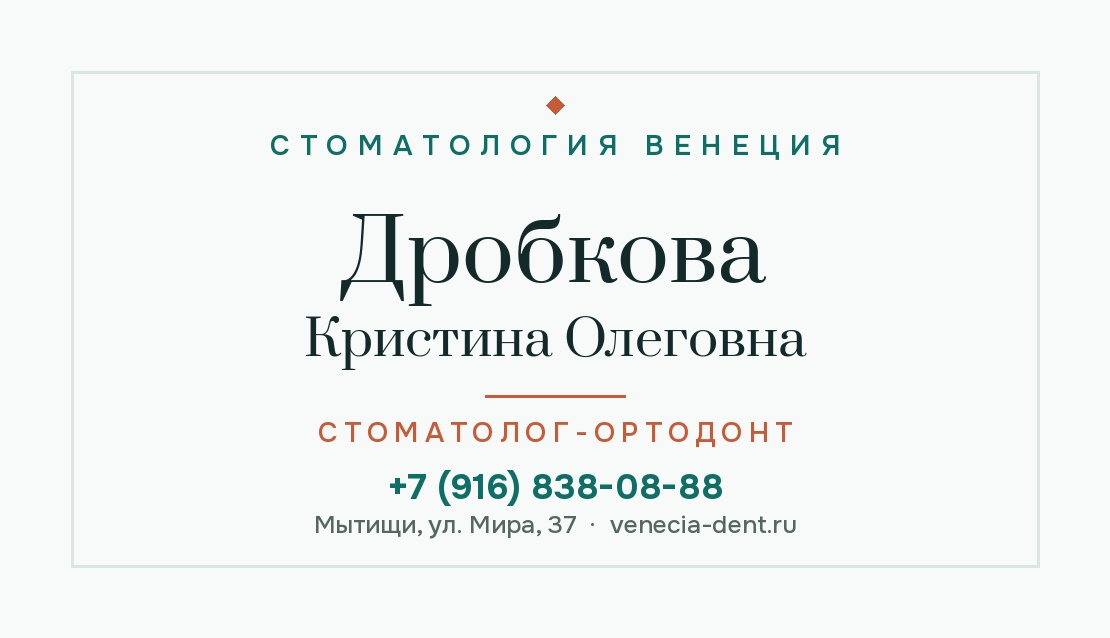
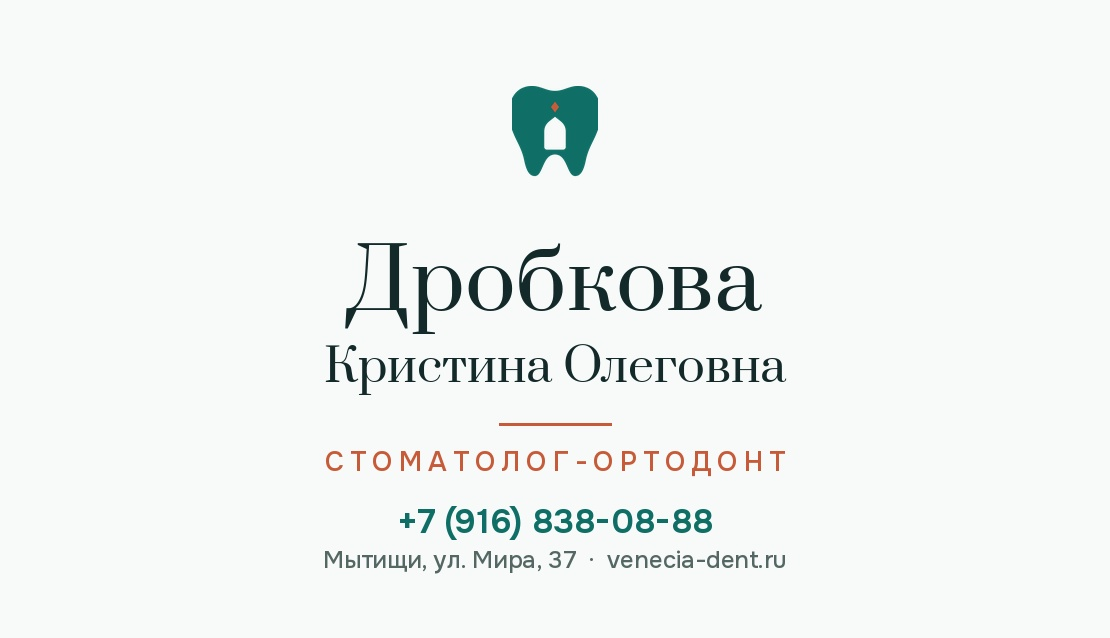
Визитки: чистая лицевая сторона — малый знак вместо текстовой шапки, без рамки, больше воздуха

Changed region(s): [[0.2757, 0.3276, 0.7351, 0.6254], [0.0613, 0.6552, 0.9495, 0.8934], [0.0613, 0.0893, 0.9495, 0.268]]

diff --git a/_materials/vizitki/build-cards.py b/_materials/vizitki/build-cards.py
@@ -52,25 +52,24 @@ def front(surname, name, role, out):
     d = ImageDraw.Draw(im)
     cx = W / 2
 
-    # тонкая рамка-паспарту (внутри реза на 4 мм)
-    fi = BLEED + round(4 * MM)
-    d.rectangle([fi, fi, W - fi, H - fi], outline=TINT, width=3)
-
-    # шапка: ромбик + имя клиники
-    diamond(d, cx, fi + 34, 9, TERRA)
-    ctext(d, cx, fi + 56, 'СТОМАТОЛОГИЯ ВЕНЕЦИЯ', onest(28, 600), LAGOON, ls=10)
+    # маленький фирменный знак вместо текстовой шапки
+    mark = Image.open(os.path.join(HERE, 'logo-lagoon-mark.png')).convert('RGBA')
+    mh = 96
+    mw = round(mark.width * mh / mark.height)
+    mark = mark.resize((mw, mh), Image.LANCZOS)
+    im.paste(mark, (round(cx - mw / 2), 86), mark)
 
     # имя врача
-    ctext(d, cx, 196, surname, prata(86), INK)
-    ctext(d, cx, 306, name, prata(50), INK)
+    ctext(d, cx, 226, surname, prata(84), INK)
+    ctext(d, cx, 336, name, prata(46), INK)
 
     # разделитель + должность
-    d.line([cx - 70, 396, cx + 70, 396], fill=TERRA, width=3)
-    ctext(d, cx, 414, role.upper(), onest(28, 550), TERRA, ls=6)
+    d.line([cx - 56, 424, cx + 56, 424], fill=TERRA, width=3)
+    ctext(d, cx, 444, role.upper(), onest(27, 550), TERRA, ls=6)
 
     # контакты
-    ctext(d, cx, 464, '+7 (916) 838-08-88', onest(36, 700), LAGOON)
-    ctext(d, cx, 508, 'Мытищи, ул. Мира, 37  ·  venecia-dent.ru', onest(25, 500), MUTED)
+    ctext(d, cx, 500, '+7 (916) 838-08-88', onest(34, 650), LAGOON)
+    ctext(d, cx, 544, 'Мытищи, ул. Мира, 37  ·  venecia-dent.ru', onest(24, 500), MUTED)
 
     im.save(os.path.join(HERE, out), quality=95, dpi=(300, 300))
     print('built', out)
